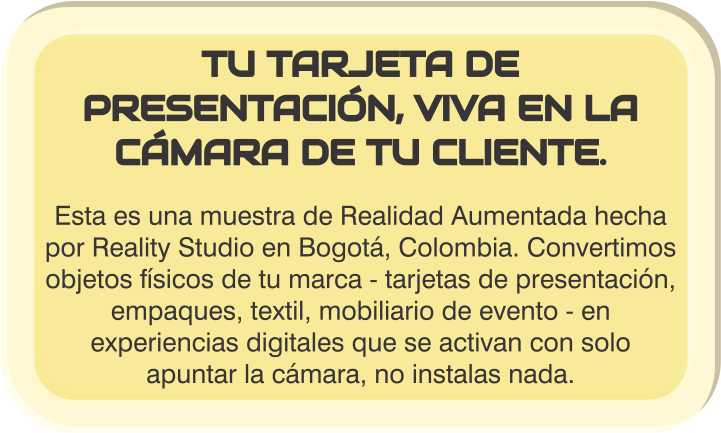
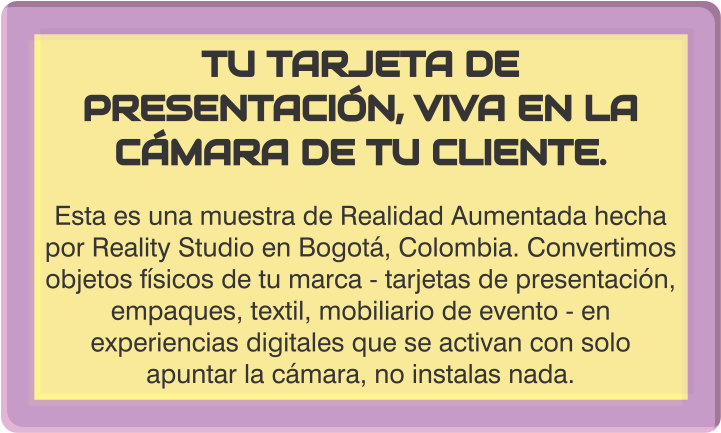
Versión sin problemas de trackeo, mas estable, botón fixed

Changed region(s): [[0.0, 0.0, 1.0, 1.0]]

diff --git a/ar/tarjeta-corporativa.html b/ar/tarjeta-corporativa.html
@@ -332,7 +332,8 @@
            mindar-image="imageTargetSrc: ../targets/RealityStudio_logo.mind;
                          filterMinCF: 0.0001;
                          filterBeta: 0.01;
-                         missTolerance: 5"
+                         missTolerance: 5;
+                         uiScanning: no"
            color-space="sRGB"
            renderer="colorManagement: true, physicallyCorrectLights"
            vr-mode-ui="enabled: false"
@@ -350,17 +351,17 @@
     <a-entity id="arTarget" mindar-image-target="targetIndex: 0">
       <!-- Paso 1 — primera imagen de la tarjeta (visible al reconocer el target) -->
       <a-plane id="stepCard1" src="#card1" position="0 0 0" height="0.552" width="1"
-               rotation="0 0 0" scale="1 1 1" visible="false"></a-plane>
+               rotation="0 0 0" scale="1.2 1.2 1.2" visible="false"></a-plane>
 
       <!-- Paso 2 — segunda imagen de la tarjeta -->
       <a-plane id="stepCard2" src="#card2" position="0 0 0" height="0.552" width="1"
-               rotation="0 0 0" scale="1 1 1" visible="false"></a-plane>
+               rotation="0 0 0" scale="1.2 1.2 1.2" visible="false"></a-plane>
 
       <!-- Paso 3 — logo 3D de Reality Studio, se queda visible mientras el
            target siga en cámara -->
       <a-gltf-model id="stepModel" rotation="0 0 0" position="0 0 0" scale="0.4 0.4 0.4"
                     src="#rsModel" visible="false"
-                    animation="property: position; to: 0 0.5 0; dur: 700;
+                    animation="property: position; to: 0 -0.5 0; dur: 700;
                                easing: easeInOutQuad; loop: true; dir: alternate">
       </a-gltf-model>
     </a-entity>
@@ -399,6 +400,8 @@
     // y recupera el target, la secuencia arranca de nuevo desde el
     // principio (comportamiento "reset" confirmado).
     const STEP_DURATION_MS = 3000;
+    const STEP_DURATION_MS_SHORT = 1500;
+    const STEP_DURATION_MS_LONG = 4000;
     let sequenceTimers = [];
 
     function clearSequenceTimers() {
@@ -420,11 +423,11 @@
 
       sequenceTimers.push(window.setTimeout(() => {
         setStepVisible('card2');
-      }, STEP_DURATION_MS));
+      }, STEP_DURATION_MS_LONG));
 
       sequenceTimers.push(window.setTimeout(() => {
         setStepVisible('model');
-      }, STEP_DURATION_MS * 2));
+      }, STEP_DURATION_MS_LONG * 2));
     }
 
     function resetSequence() {